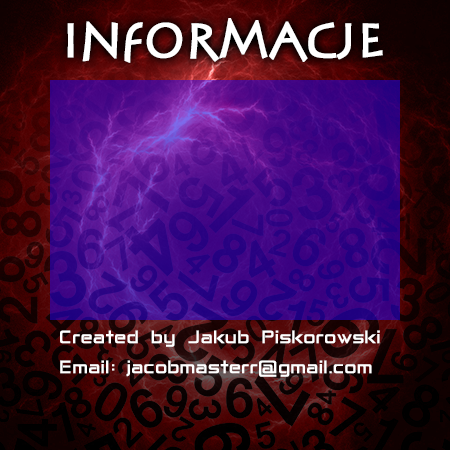
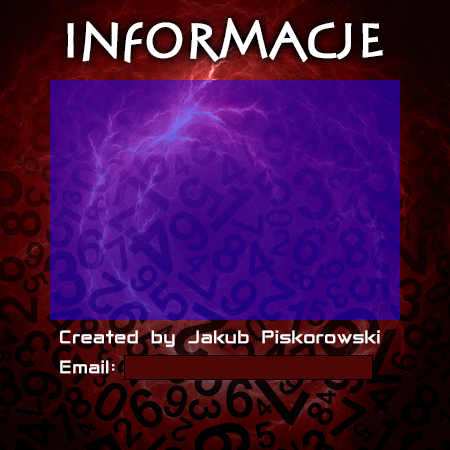
Update

Changed region(s): [[0.28, 0.7778, 0.84, 0.8711]]

diff --git a/GUI_2048/GUI_2048/Informacje.xaml b/GUI_2048/GUI_2048/Informacje.xaml
@@ -32,7 +32,7 @@
         <!--
         <TextBlock Grid.Column="1" HorizontalAlignment="Left" Margin="70,30,0,0" Grid.Row="4" TextWrapping="Wrap"  VerticalAlignment="Top" Height="50" FontSize="15" Width="250">
             <Run Text="Created by Jakub Piskorowski "/><LineBreak/>
-            <Run Text="Email: jacobmasterr@gmail.com"/>
+            <Run Text="Email: "/>
         </TextBlock>
 -->
         <Button Click="wyjscie"  Grid.Column="1" Height="39" FontSize="20" HorizontalAlignment="Left" Margin="100,0,0,0" Grid.Row="6" VerticalAlignment="Top" Width="141">

diff --git a/GUI_2048/GUI_2048/Plansza8x8.xaml.cs b/GUI_2048/GUI_2048/Plansza8x8.xaml.cs
@@ -1,4 +1,5 @@
-using System;
+//  Created by Jakub Piskorowski on 20/05/2018
+using System;
 using System.Collections.Generic;
 using System.Linq;
 using System.Text;
@@ -20,19 +21,7 @@ namespace GUI_2048
     /// </summary>
     public partial class Plansza8x8 : Window
     {
-        /*
-        public int pause; // zmienna tymczasowa
         
-        public static int menu, sizeBoard;
-        public int button;             //klawisz
-        public int historyXcoordinate1, historyYcoordinate1;
-        public int historyXcoordinate2, historyYcoordinate2;
-        public static string exitt;
-  
-        */
-
-
-
         public System.Windows.Media.SolidColorBrush ChangeBackground(int a, int b)
         {
             //var checkBg = Brushes.White; 
@@ -235,7 +224,7 @@ namespace GUI_2048
                         case 2048: if (checkAchiv == 3) { MessageBox.Show("Czy to już koniec?"); checkAchiv = 4; } break;
                         case 4096: if (checkAchiv == 4) { MessageBox.Show("Czy to jeszcze działa?"); checkAchiv = 5; } break;
                         case 8192: if (checkAchiv == 5) { MessageBox.Show("Pojawiam się i znikam. Taka rola magika"); checkAchiv = 6; } break;
-                        case 16384: if (checkAchiv == 6) { MessageBox.Show("„Ja tu byłem :D” – Jacob.exe"); checkAchiv = 7; } break;
+                        case 16384: if (checkAchiv == 6) { MessageBox.Show("„Ja tu byłem :D” – Jacob"); checkAchiv = 7; } break;
                         case 32768: if (checkAchiv == 7) { MessageBox.Show("Jestem farmerem!"); checkAchiv = 8; } break;
                         case 65536: if (checkAchiv == 8) { MessageBox.Show("Choćbym chodził ciemną doliną…"); checkAchiv = 9; } break;
                         case 131072: if (checkAchiv == 9) { MessageBox.Show("Wybraniec"); checkAchiv = 10; } break;

diff --git a/GUI_2048/GUI_2048/Plansza6x6.xaml.cs b/GUI_2048/GUI_2048/Plansza6x6.xaml.cs
@@ -1,4 +1,5 @@
-using System;
+//  Created by Jakub Piskorowski on 20/05/2018
+using System;
 using System.Collections.Generic;
 using System.Linq;
 using System.Text;
@@ -20,18 +21,6 @@ namespace GUI_2048
     /// </summary>
     public partial class Plansza6x6 : Window
     {
-        /*
-        public int pause; // zmienna tymczasowa
-        
-        public static int menu, sizeBoard;
-        public int button;             //klawisz
-        public int historyXcoordinate1, historyYcoordinate1;
-        public int historyXcoordinate2, historyYcoordinate2;
-        public static string exitt;
-  
-        */
-
-
 
         public System.Windows.Media.SolidColorBrush ChangeBackground(int a, int b)
         {
@@ -173,7 +162,7 @@ namespace GUI_2048
                         case 2048: if (checkAchiv == 3) { MessageBox.Show("Czy to już koniec?"); checkAchiv = 4; } break;
                         case 4096: if (checkAchiv == 4) { MessageBox.Show("Czy to jeszcze działa?"); checkAchiv = 5; } break;
                         case 8192: if (checkAchiv == 5) { MessageBox.Show("Pojawiam się i znikam. Taka rola magika"); checkAchiv = 6; } break;
-                        case 16384: if (checkAchiv == 6) { MessageBox.Show("„Ja tu byłem :D” – Jacob.exe"); checkAchiv = 7; } break;
+                        case 16384: if (checkAchiv == 6) { MessageBox.Show("„Ja tu byłem :D” – Jacob"); checkAchiv = 7; } break;
                         case 32768: if (checkAchiv == 7) { MessageBox.Show("Jestem farmerem!"); checkAchiv = 8; } break;
                         case 65536: if (checkAchiv == 8) { MessageBox.Show("Choćbym chodził ciemną doliną…"); checkAchiv = 9; } break;
                         case 131072: if (checkAchiv == 9) { MessageBox.Show("Wybraniec"); checkAchiv = 10; } break;

diff --git a/GUI_2048/GUI_2048/Plansza4x4.xaml.cs b/GUI_2048/GUI_2048/Plansza4x4.xaml.cs
@@ -1,4 +1,5 @@
-using System;
+//  Created by Jakub Piskorowski on 20/05/2018
+using System;
 using System.Collections.Generic;
 using System.Linq;
 using System.Text;
@@ -126,7 +127,7 @@ namespace GUI_2048
                         case 2048: if (checkAchiv == 3) { MessageBox.Show("Czy to już koniec?"); checkAchiv = 4; } break;
                         case 4096: if (checkAchiv == 4) { MessageBox.Show("Czy to jeszcze działa?"); checkAchiv = 5; } break;
                         case 8192: if (checkAchiv == 5) { MessageBox.Show("Pojawiam się i znikam. Taka rola magika"); checkAchiv = 6; } break;
-                        case 16384: if (checkAchiv == 6) { MessageBox.Show("„Ja tu byłem :D” – Jacob.exe"); checkAchiv = 7; } break;
+                        case 16384: if (checkAchiv == 6) { MessageBox.Show("„Ja tu byłem :D” – Jacob"); checkAchiv = 7; } break;
                         case 32768: if (checkAchiv == 7) { MessageBox.Show("Jestem farmerem!"); checkAchiv = 8; } break;
                         case 65536: if (checkAchiv == 8) { MessageBox.Show("Choćbym chodził ciemną doliną…"); checkAchiv = 9; } break;
                         case 131072: if (checkAchiv == 9) { MessageBox.Show("Wybraniec"); checkAchiv = 10; } break;

diff --git a/GUI_2048/GUI_2048/Board.cs b/GUI_2048/GUI_2048/Board.cs
@@ -1,4 +1,5 @@
-using System;
+//  Created by Jakub Piskorowski on 20/05/2018
+using System;
 using System.Collections.Generic;
 using System.Linq;
 using System.Text;

diff --git a/GUI_2048/GUI_2048/Key.cs b/GUI_2048/GUI_2048/Key.cs
@@ -1,4 +1,5 @@
-using System;
+//  Created by Jakub Piskorowski on 20/05/2018
+using System;
 using System.Collections.Generic;
 using System.Linq;
 using System.Text;
